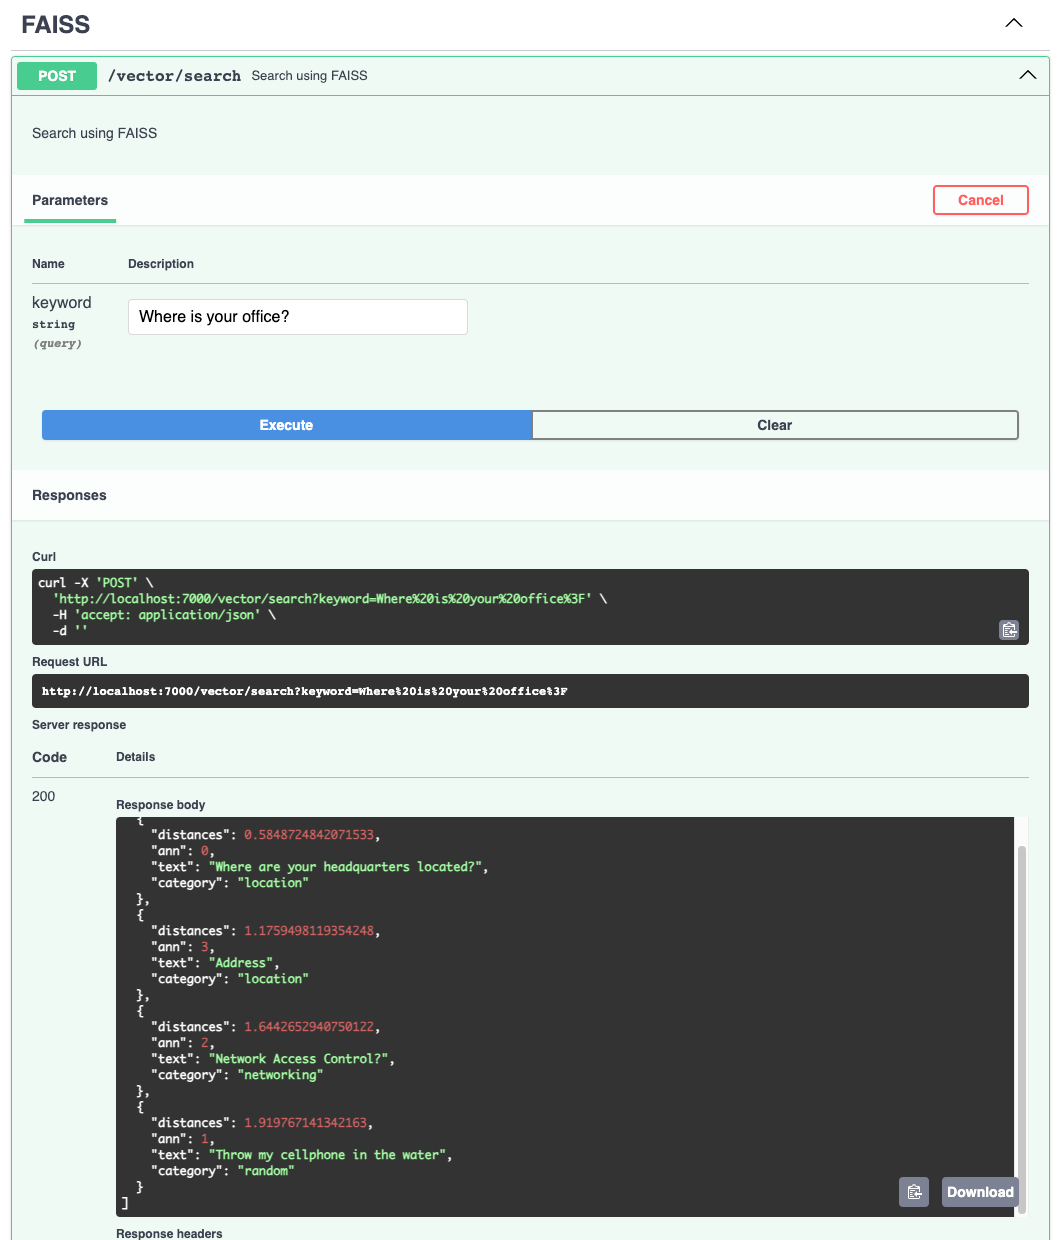
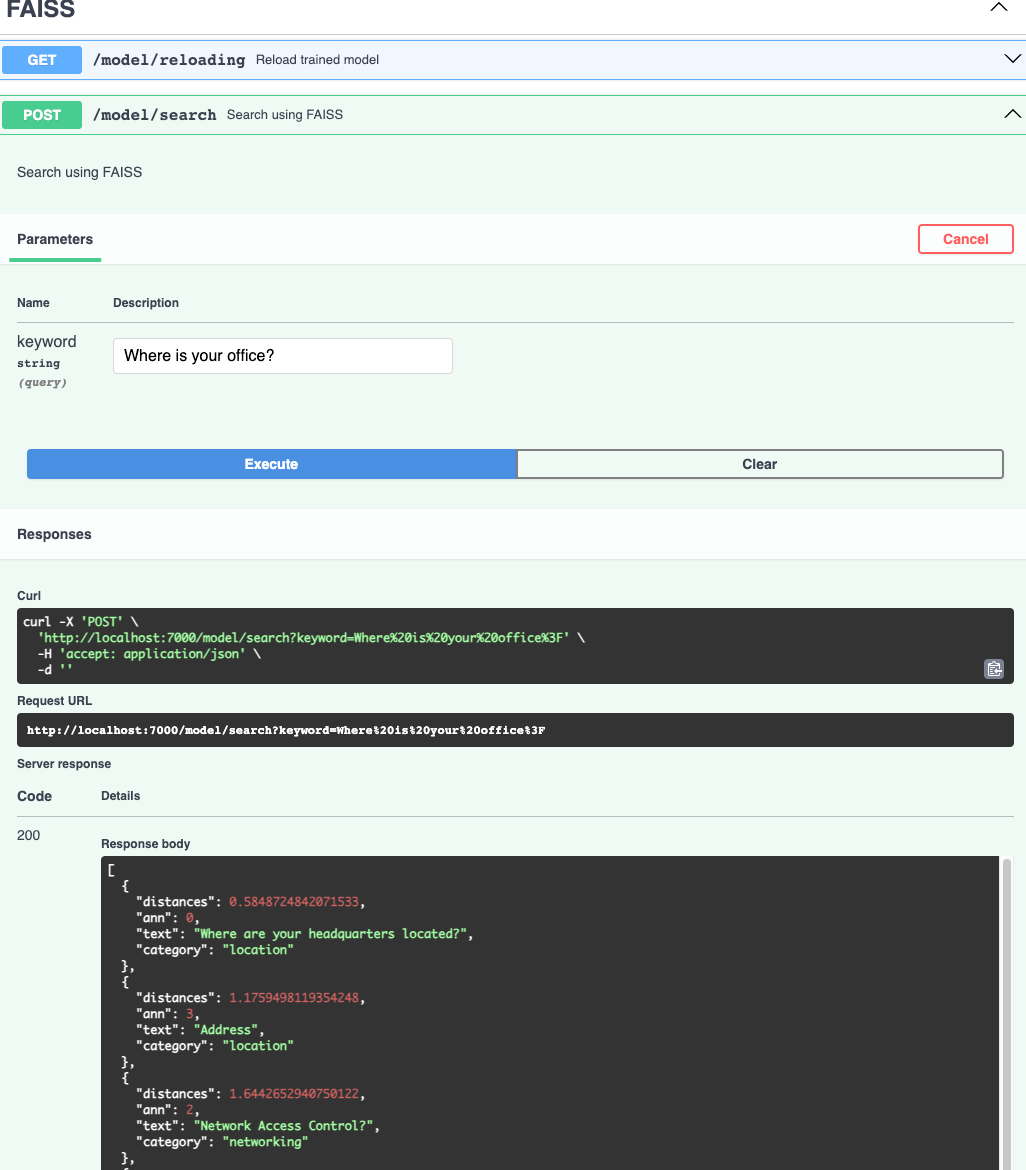
Update

diff --git a/controller/vector_search_controller.py b/controller/vector_search_controller.py
@@ -11,13 +11,24 @@ import json
 
 
 app = APIRouter(
-    prefix="/vector",
+    prefix="/model",
 )
 
 ''' test FAISS model '''
 v_model = V_FAISS_Example()
 
 ITEM_NOT_FOUND = "Item not found for id: {}"
+
+
+
+@app.get("/reloading", 
+         status_code=StatusHanlder.HTTP_STATUS_200,
+         description="Reload trained model", 
+         summary="Reload trained model")
+async def get_reload_model():
+    ''' Saved model and call this api to reload '''
+    return {'message' : "reloading"}
+
 
 @app.post("/search", 
           status_code=StatusHanlder.HTTP_STATUS_200, 
